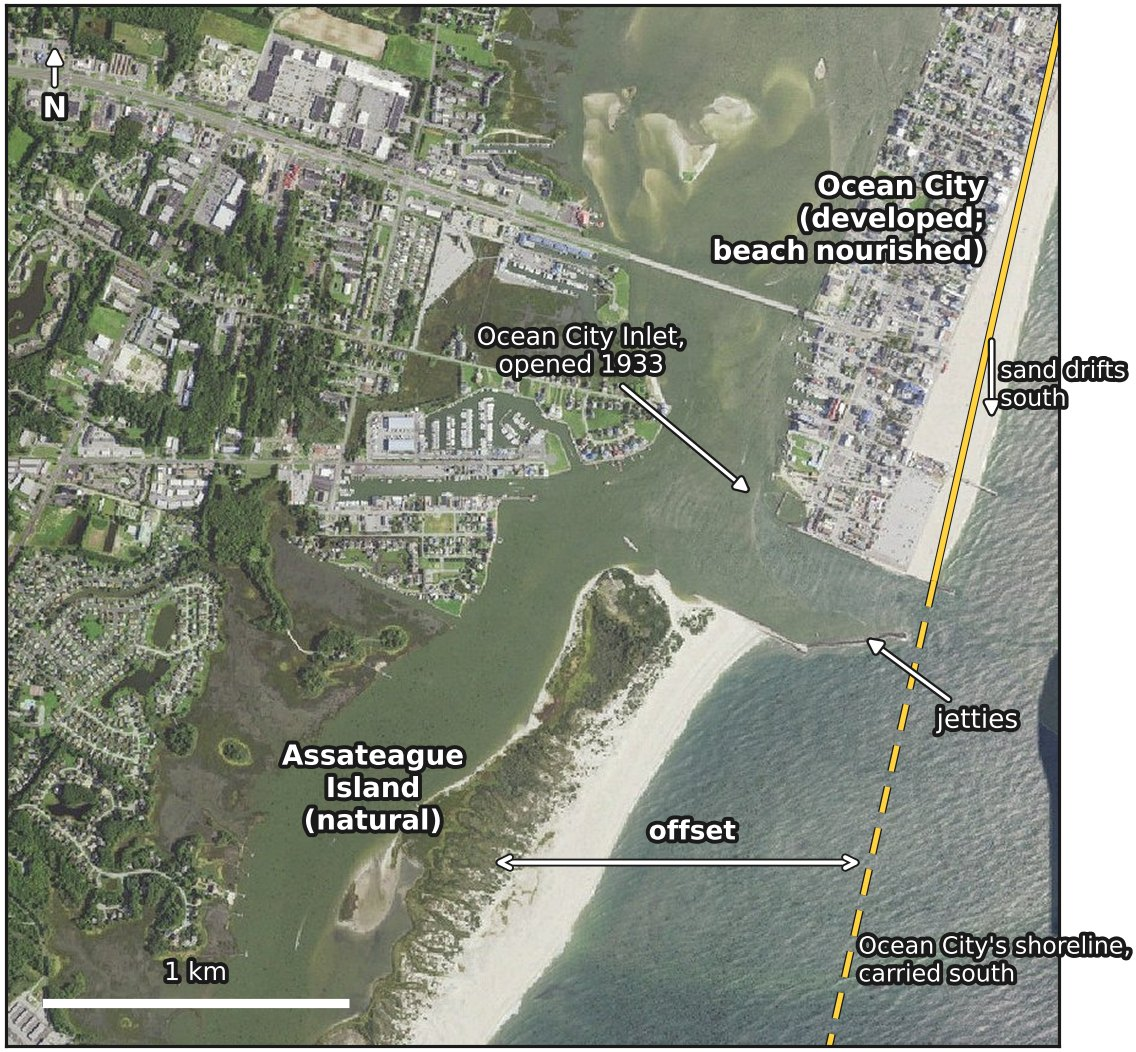
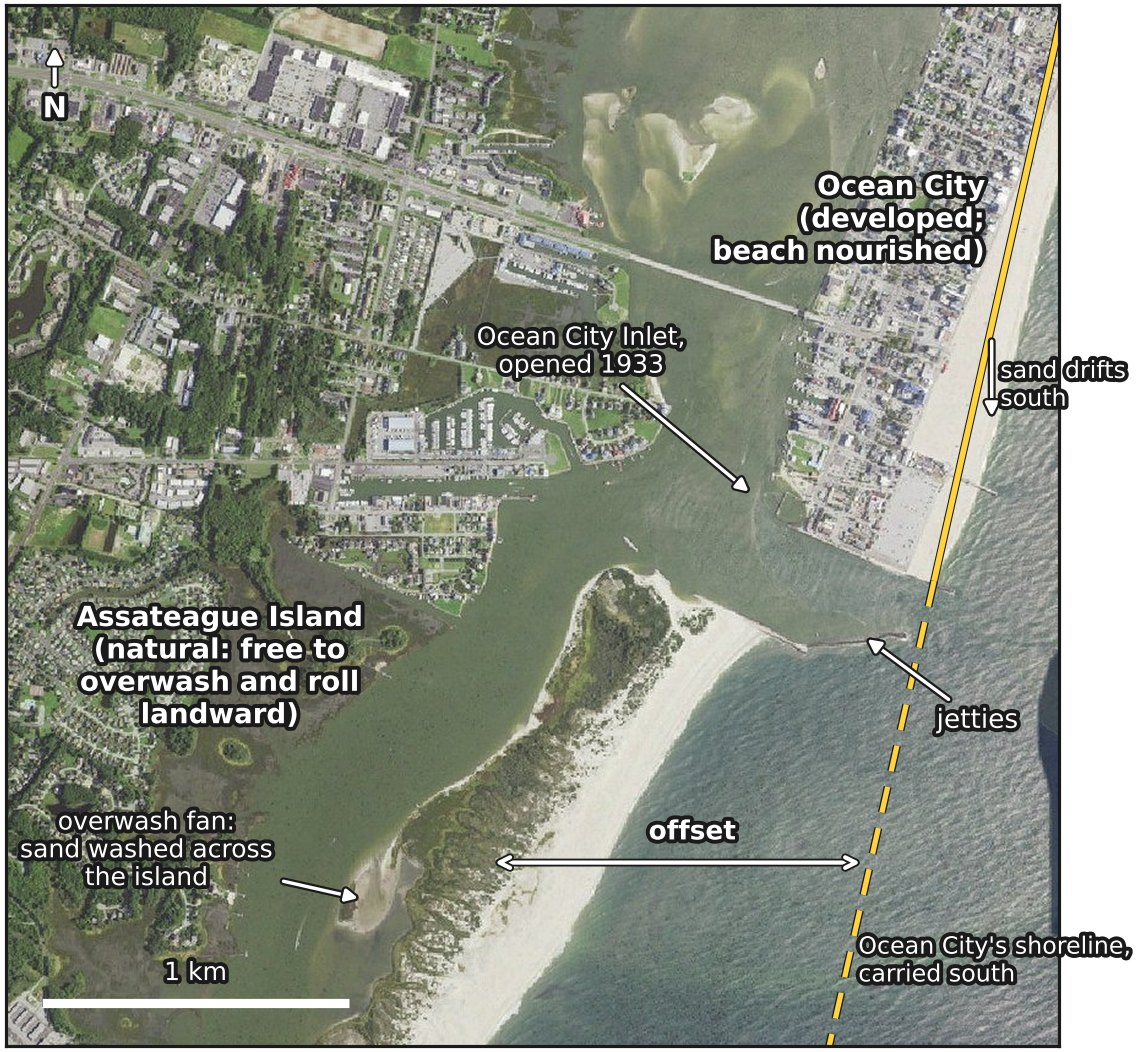
Frame the Assateague example around overwash and rollover

Changed region(s): [[0.0616, 0.5475, 0.4313, 0.7909], [0.0, 0.7605, 0.2465, 0.8517], [0.2465, 0.8213, 0.3081, 0.8517]]

diff --git a/tools/hatteras_assateague_figure.py b/tools/hatteras_assateague_figure.py
@@ -3,11 +3,11 @@ Ocean City and Assateague Island across Ocean City Inlet, for the Dune building 
 
     python tools/hatteras_assateague_figure.py
 
-A developed, held shoreline next to a natural one: USGS National Map imagery (public domain) of Ocean City Inlet,
+A developed, held shoreline next to a natural one that is free to overwash and roll landward: USGS National Map imagery (public domain) of Ocean City Inlet,
 Maryland, with Ocean City's shoreline carried south as a dashed line so the landward offset of Assateague's north
 end shows. The inlet opened in a 1933 hurricane and was fixed with jetties; they cut off the sand drifting south,
 and Assateague's north end retreated faster (Pendleton, Williams and Thieler, 2004, USGS Open-File Report 2004-1020).
-Hannah asked for this example on 2026-10-03. The dashed line is drawn by eye along Ocean City's water's edge in the
+Hannah asked for this example on 2026-10-03, to show an island allowed to overwash and roll over beside a developed one. The dashed line is drawn by eye along Ocean City's water's edge in the
 photo; it shows the offset, it does not measure it. Writes assets/hatteras/img/assateague_offset.jpg.
 
 Author:  Hannah A. Henry, Coastal Environmental Change Lab,
@@ -70,7 +70,10 @@ def main():
     ax.text(x1 + slope * (780 - y1) + 8, 780, "Ocean City's shoreline,\ncarried south", ha="left", va="center", fontsize=9, **t)
 
     ax.text(800, 175, "Ocean City\n(developed;\nbeach nourished)", ha="right", va="center", fontsize=10.5, fontweight="bold", **t)
-    ax.text(300, 640, "Assateague\nIsland\n(natural)", ha="center", va="center", fontsize=10.5, fontweight="bold", **t)
+    ax.text(175, 540, "Assateague Island\n(natural: free to\noverwash and roll\nlandward)", ha="center", va="center",
+            fontsize=10.5, fontweight="bold", **t)
+    ax.annotate("overwash fan:\nsand washed across\nthe island", xy=(292, 730), xytext=(115, 690), ha="center", va="center",
+                fontsize=9.5, arrowprops=dict(arrowstyle="-|>", color="white", lw=1.3, path_effects=halo), **t)
     ax.annotate("jetties", xy=(700, 515), xytext=(760, 590), ha="left", fontsize=10, arrowprops=dict(arrowstyle="-|>", color="white", lw=1.3, path_effects=halo), **t)
     ax.annotate("Ocean City Inlet,\nopened 1933", xy=(610, 400), xytext=(470, 300), ha="center", fontsize=9.5,
                 arrowprops=dict(arrowstyle="-|>", color="white", lw=1.3, path_effects=halo), **t)

diff --git a/_pages/hatteras/management-dunes.md b/_pages/hatteras/management-dunes.md
@@ -15,18 +15,20 @@ A tall, continuous dune keeps small and medium storms off the road and out of th
 It also stops {% include hatteras/term.liquid id="overwash" text="overwash" %}, the natural process that carries sand onto the island and lets it build upward as the sea rises.
 An island held behind a fixed {% include hatteras/term.liquid id="dune-line" text="dune line" %} can grow lower and narrower over time, compared with one that is free to roll landward.
 
-### Held in place, or free to move: an example from Maryland
+### Held in place, or free to roll over: an example from Maryland
 
-Ocean City and Assateague Island, on the Maryland coast just north of Virginia, were one island until a hurricane cut Ocean City Inlet in 1933.
-The Army Corps of Engineers built jetties to hold the inlet open. The jetties trap the sand that used to drift south along the shore, and Ocean City's beach is nourished to hold its shoreline in place.
-Assateague, cut off from that sand and left natural, began retreating faster. Its north end has rolled landward, so the two shorelines no longer line up.
+Ocean City and Assateague Island, on the Maryland coast just north of Virginia, show the difference side by side.
+Ocean City is built up, and its beach is nourished to hold the shoreline where it is.
+Assateague, across the inlet, is a national seashore left to behave naturally: storms wash over its low dunes and carry sand across the island into the bay behind.
+That overwash is how a barrier island rolls landward as the sea rises, so Assateague has moved landward while Ocean City has stayed put.
+The jetties built in 1934–35 to hold Ocean City Inlet open also cut Assateague off from the sand drifting south, which sped its retreat.
 
 <figure class="hat-photo-wide" style="max-width: 40rem; margin-left: auto; margin-right: auto;">
 <img src="{{ '/assets/hatteras/img/assateague_offset.jpg' | relative_url }}" alt="Aerial photo of Ocean City Inlet, Maryland: developed Ocean City to the north, the inlet with its jetties, and the natural north end of Assateague Island to the south, whose beach sits far landward of a dashed line carrying Ocean City's shoreline south" loading="lazy">
-<figcaption class="hat-caption">Ocean City and the north end of Assateague Island, Maryland, across Ocean City Inlet. The yellow line follows Ocean City's water's edge, and the dashed line carries it south: Assateague's shoreline now sits well landward of it. The dashed line is drawn by eye to show the offset, not to measure it. Imagery: USGS The National Map. Source: Pendleton, Williams and Thieler (2004), <a href="https://pubs.usgs.gov/of/2004/1020/"><i>Coastal Vulnerability Assessment of Assateague Island National Seashore to Sea-Level Rise</i></a>, USGS Open-File Report 2004-1020.</figcaption>
+<figcaption class="hat-caption">Ocean City and the north end of Assateague Island, Maryland, across Ocean City Inlet. Assateague's north end is low and bare, with overwash fans where storms carried sand across the island toward the bay. The yellow line follows Ocean City's water's edge, and the dashed line carries it south: Assateague's shoreline now sits well landward of it. The dashed line is drawn by eye to show the offset, not to measure it. Imagery: USGS The National Map. Source: Pendleton, Williams and Thieler (2004), <a href="https://pubs.usgs.gov/of/2004/1020/"><i>Coastal Vulnerability Assessment of Assateague Island National Seashore to Sea-Level Rise</i></a>, USGS Open-File Report 2004-1020.</figcaption>
 </figure>
 
-Hatteras sits between the two. Its villages and road are held in place much like Ocean City, while long stretches of the National Seashore are left to change more naturally.
+Hatteras sits between the two. Its villages and road are held in place much like Ocean City, behind a built dune line that keeps most overwash off the island.
 
 The dune line itself is largely built by people.
 Between 1936 and 1940, Civilian Conservation Corps and Works Progress Administration crews, directed by the National Park Service, put up almost 3 million feet of sand fencing to build a continuous barrier dune along the Outer Banks.
